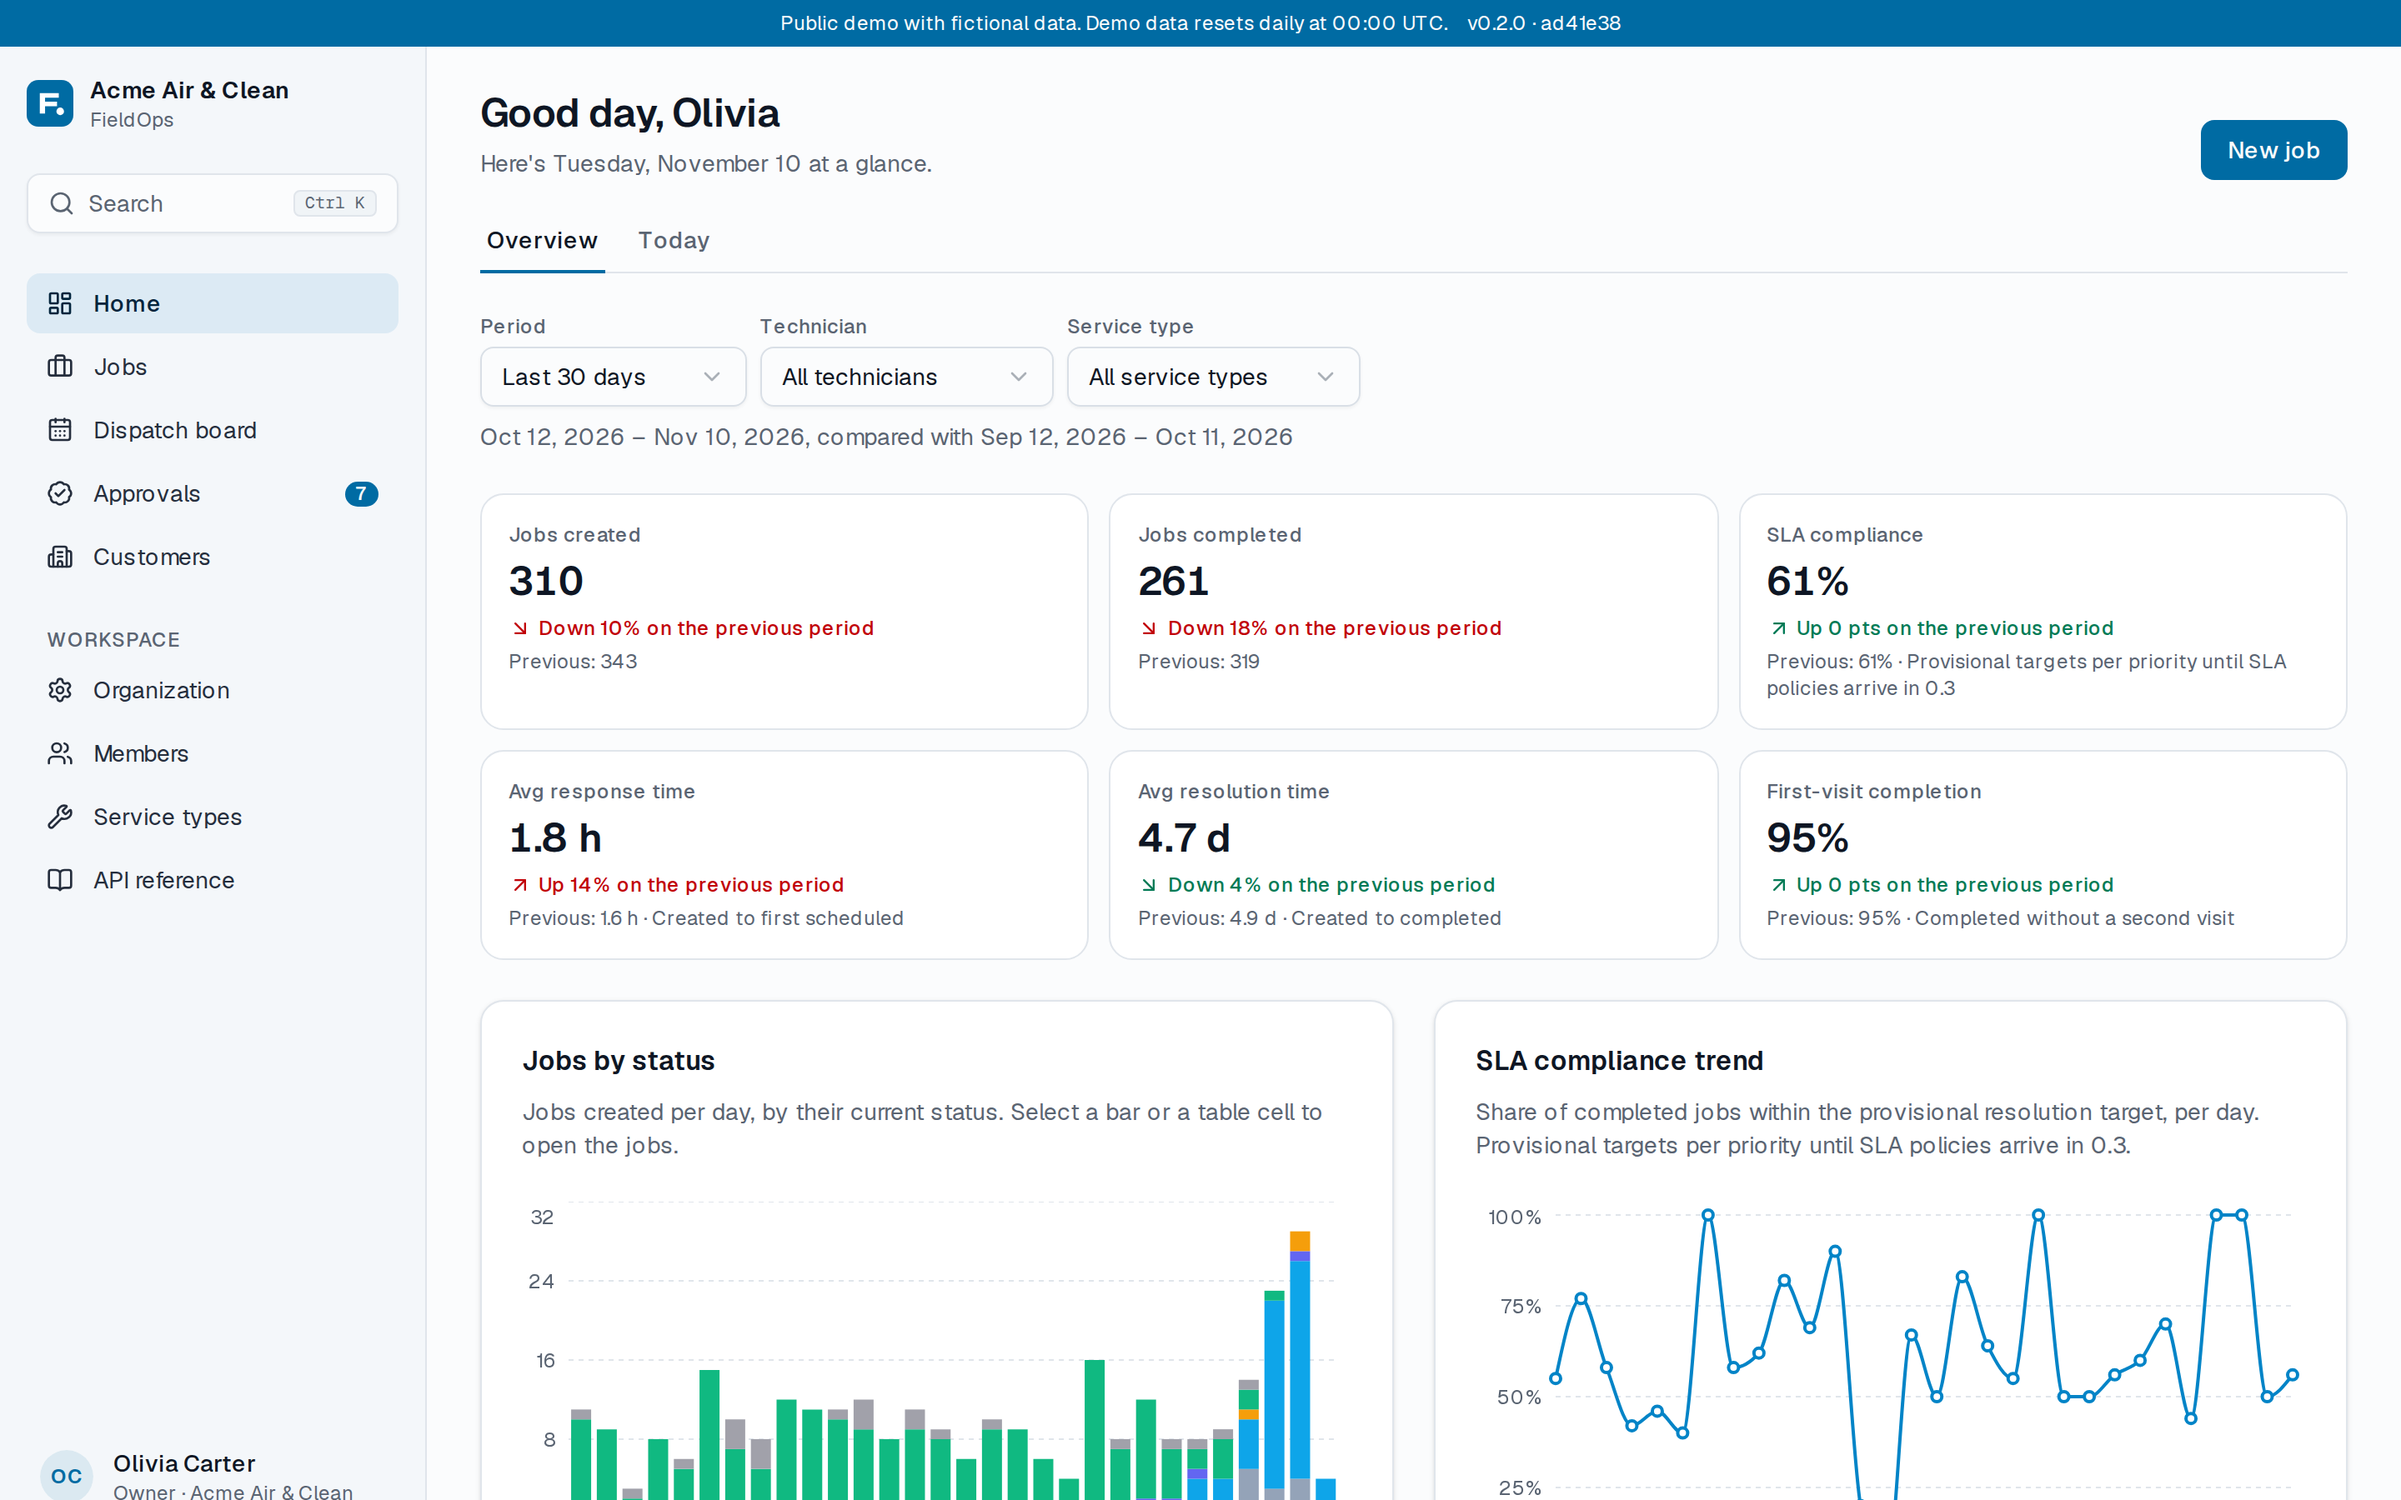
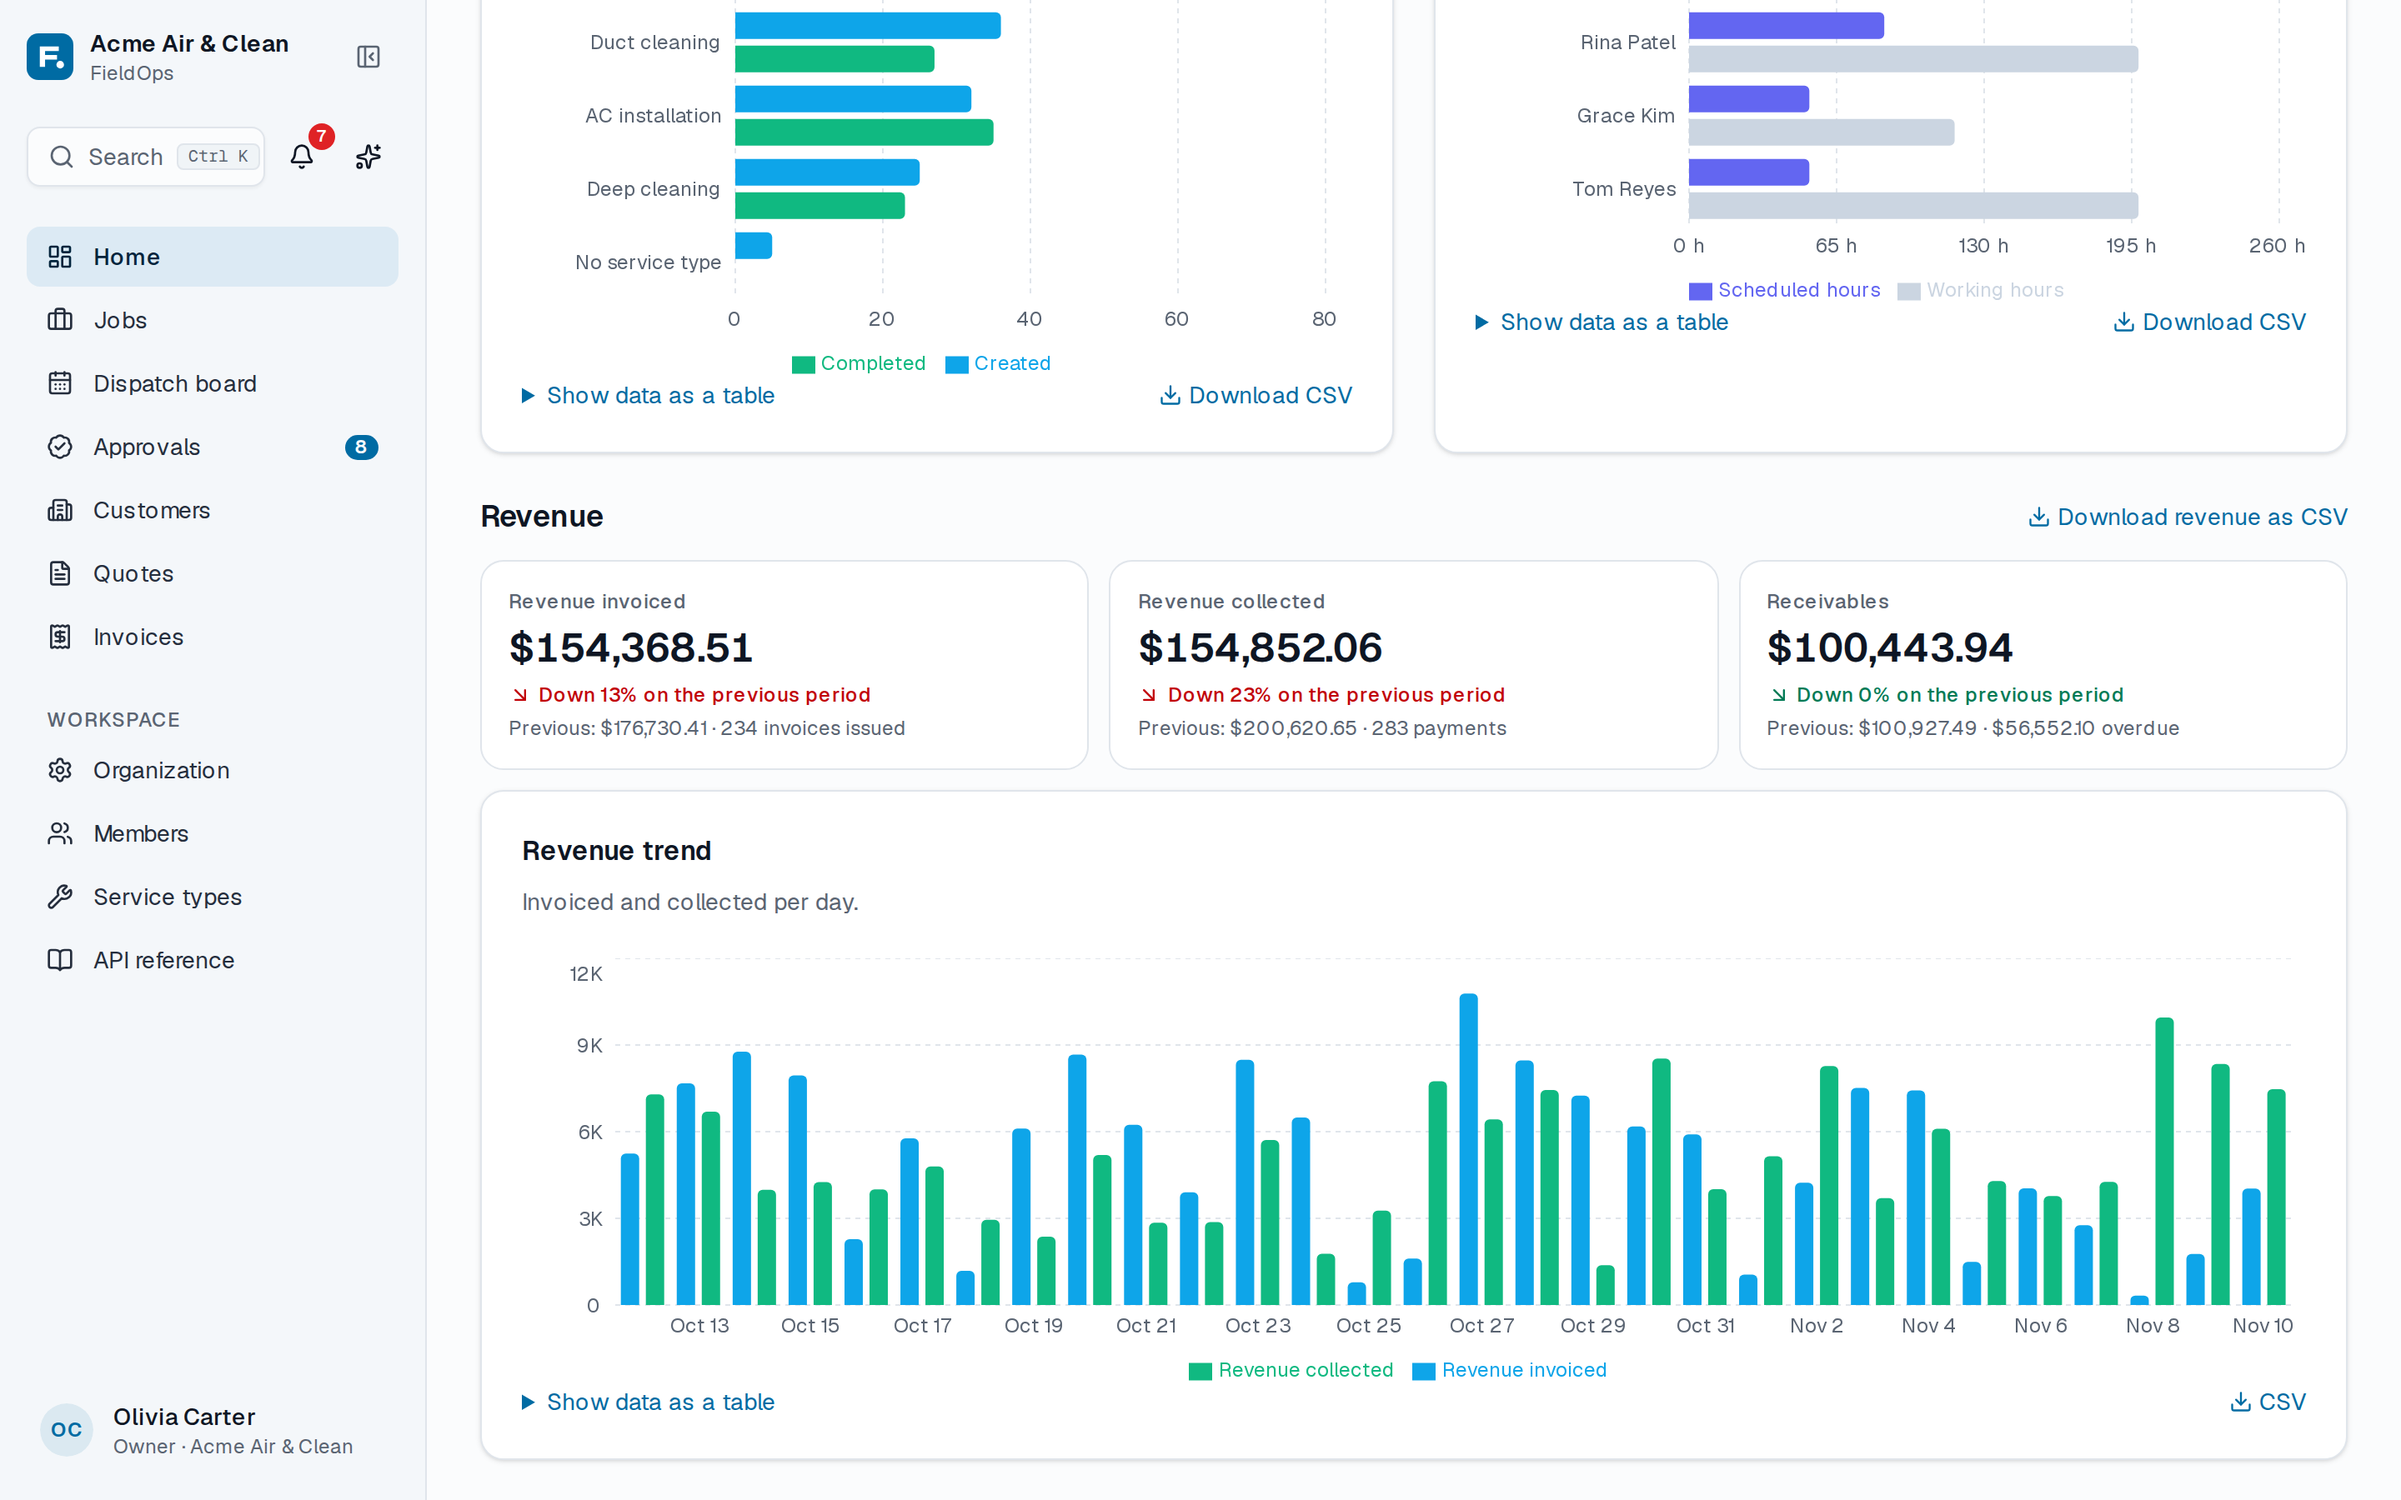
docs: 0.4 screenshots, release GIF and README

diff --git a/README.md b/README.md
@@ -26,7 +26,7 @@ A second fictional company, _Acme Teknik Nusantara_ (Jakarta, IDR), shows that t
 
 ## What's in release 0.3
 
-![A customer requests service in the portal; the dispatcher, on the board, gets a live notification, confirms the request and schedules it, and the customer sees the visit](docs/screenshots/release-0.3.gif)
+![In the customer portal, a customer approves a quote and gets the number of the new job, then pays an invoice through the test checkout and sees it marked paid](docs/screenshots/release-0.4.gif)
 
 - **SLA engine:** response and resolution targets per priority, in calendar time or business hours. Every job
   carries its deadlines; a monitor raises at-risk and breached alerts once, and badges show them everywhere.
@@ -42,13 +42,21 @@ A second fictional company, _Acme Teknik Nusantara_ (Jakarta, IDR), shows that t
 - **Also:** CSV export of every dashboard report, sign in with Google, a "Try these 5 things" card for demo
   visitors, and (0.3.1) a sidebar that collapses to icons with Ctrl/⌘ B.
 
-| Customer portal                                      | A portal request with its AI draft                                                          |
-| ---------------------------------------------------- | ------------------------------------------------------------------------------------------- |
-| ![Customer portal](docs/screenshots/portal.png)      | ![AI review of a portal request](docs/screenshots/ai-review.png)                            |
-| **Notifications**                                    | **Audit log**                                                                               |
-| ![Notifications](docs/screenshots/notifications.png) | ![Audit log](docs/screenshots/audit-log.png)                                                |
-| **SLA policies**                                     | **The board with the sidebar collapsed**                                                    |
-| ![SLA policies](docs/screenshots/sla-policies.png)   | ![Dispatch board with the sidebar collapsed to icons](docs/screenshots/board-collapsed.png) |
+| A quote                                                                                                                | An invoice with a payment recorded                                                                      |
+| ---------------------------------------------------------------------------------------------------------------------- | ------------------------------------------------------------------------------------------------------- |
+| ![An approved quote with its lines, tax, total and the job it created](docs/screenshots/quote.png)                     | ![An overdue invoice with a partial payment recorded and the balance due](docs/screenshots/invoice.png) |
+| **Paying an invoice in the customer portal**                                                                           | **A service report drafted by AI**                                                                      |
+| ![An invoice in the customer portal with the balance due and Pay now](docs/screenshots/portal-billing.png)             | ![A sent service report on a completed job, drafted by AI](docs/screenshots/service-report.png)         |
+| **Maintenance plans**                                                                                                  | **Ask FieldOps (Ctrl/⌘ J)**                                                                             |
+| ![A commercial customer's maintenance plans with their status and next visits](docs/screenshots/maintenance-plans.png) | ![The Ask FieldOps panel with its recent conversations](docs/screenshots/assistant.png)                 |
+| **Revenue on the dashboard**                                                                                           | **Bahasa Indonesia and rupiah (Acme Teknik)**                                                           |
+| ![Revenue invoiced, revenue collected and receivables on the owner's dashboard](docs/screenshots/dashboard.png)        | ![The invoice list in Bahasa Indonesia with amounts in rupiah](docs/screenshots/bahasa-indonesia.png)   |
+| **Customer portal**                                                                                                    | **A portal request with its AI draft**                                                                  |
+| ![Customer portal](docs/screenshots/portal.png)                                                                        | ![AI review of a portal request](docs/screenshots/ai-review.png)                                        |
+| **Notifications**                                                                                                      | **Audit log**                                                                                           |
+| ![Notifications](docs/screenshots/notifications.png)                                                                   | ![Audit log](docs/screenshots/audit-log.png)                                                            |
+| **SLA policies**                                                                                                       | **The board with the sidebar collapsed**                                                                |
+| ![SLA policies](docs/screenshots/sla-policies.png)                                                                     | ![Dispatch board with the sidebar collapsed to icons](docs/screenshots/board-collapsed.png)             |
 
 Release 0.2 added the dispatch board with conflict checks, the technician workspace, parts approvals and the KPI
 dashboard; release 0.1 laid the base: accounts and roles, customers and sites, the job lifecycle, the REST API with
